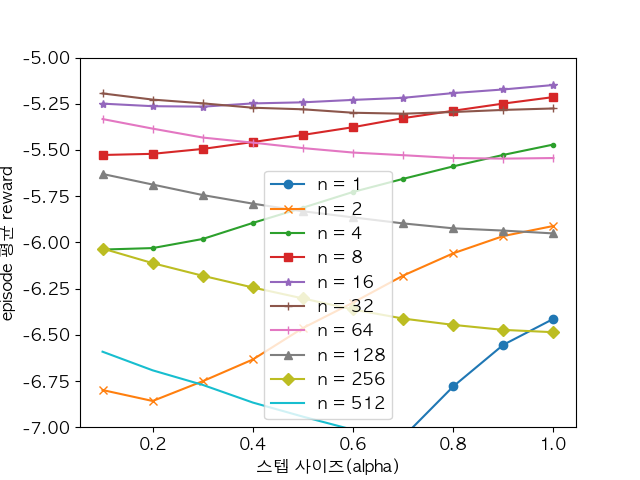
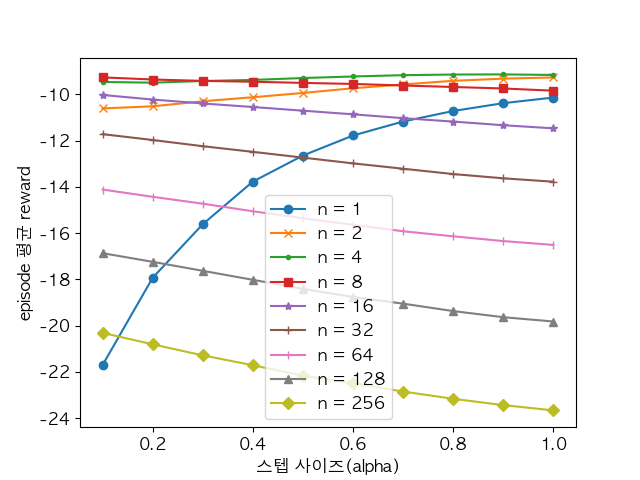
...

diff --git a/chapter_07/grid_world_sarsa.py b/chapter_07/grid_world_sarsa.py
@@ -16,7 +16,7 @@ STEP_N_MAX = 9
 def state_action_value(env):
     q = dict()
     for state in env.observation_space.STATES:
-        for action in env.observation_space.ACTIONS:
+        for action in env.action_space.ACTIONS:
             q[(state, action)] = np.random.normal()
     return q
 
@@ -47,7 +47,7 @@ def generate_greedy_policy(env, Q):
 def e_greedy(env, e, q, state):
     action_values = []
     prob = []
-    for action in env.observation_space.ACTIONS:
+    for action in env.action_space.ACTIONS:
         action_values.append(q[(state, action)])
 
     for i in range(len(action_values)):
@@ -55,7 +55,7 @@ def e_greedy(env, e, q, state):
             prob.append(1 - e + e/len(action_values))
         else:
             prob.append(e/len(action_values))
-    return env.observation_space.ACTIONS, prob
+    return env.action_space.ACTIONS, prob
 
 
 # ε-탐욕적 정책 생성 함수
@@ -98,17 +98,17 @@ def n_step_sarsa(env, epsilon=0.3, alpha=0.5, gamma=0.98, n=3, num_iter=100, lea
             if tau >= 0:
                 G = 0
                 for i in range(tau + 1, min([tau + n, T]) + 1):
-                    G += (gamma ** (i - tau - 1)) * reward_trace[i - 1]
+                    G += pow(gamma, (i - tau - 1)) * reward_trace[i - 1]
 
                 if tau + n < T:
-                    G += (gamma ** n) * Q[state_trace[tau + n], action_trace[tau + n]]
+                    G += pow(gamma, n) * Q[state_trace[tau + n], action_trace[tau + n]]
 
                 Q[state_trace[tau], action_trace[tau]] += alpha * (G - Q[state_trace[tau], action_trace[tau]])
 
                 if learn_policy:
                     policy[state_trace[tau]] = e_greedy(env, epsilon, Q, state_trace[tau])
 
-            if tau == (T - 1):
+            if tau == T - 1:
                 break
             t += 1
 
@@ -143,7 +143,6 @@ if __name__ == '__main__':
 
     plt.xlabel('스텝 사이즈(alpha)')
     plt.ylabel('episode 평균 reward')
-    plt.ylim([-10, -5])
     plt.legend()
 
     plt.savefig('images/n_step_sarsa_for_grid_world.png')

diff --git a/chapter_07/grid_world_sarsa_variable_2.py b/chapter_07/grid_world_sarsa_variable_2.py
@@ -149,10 +149,10 @@ def variable_n_step_sarsa(env, epsilon=0.3, alpha=0.5, gamma=0.98, num_iter=100,
 
                 G = 0
                 for i in range(update_state + 1, min([update_state + n, T]) + 1):
-                    G += (gamma ** (i - update_state - 1)) * reward_trace[i - 1]
+                    G += pow(gamma, i - update_state - 1) * reward_trace[i - 1]
 
                 if update_state + n < T:
-                    G += (gamma ** n) * Q[state_trace[update_state + n], action_trace[update_state + n]]
+                    G += pow(gamma, n) * Q[state_trace[update_state + n], action_trace[update_state + n]]
                 else:
                     n = T - update_state        # terminal state 넘어가는 n값 조정
 
@@ -165,7 +165,7 @@ def variable_n_step_sarsa(env, epsilon=0.3, alpha=0.5, gamma=0.98, num_iter=100,
 
                 update_state += 1
 
-            if update_state == (T - 1):
+            if update_state == T - 1:
                 break
             t += 1
 
